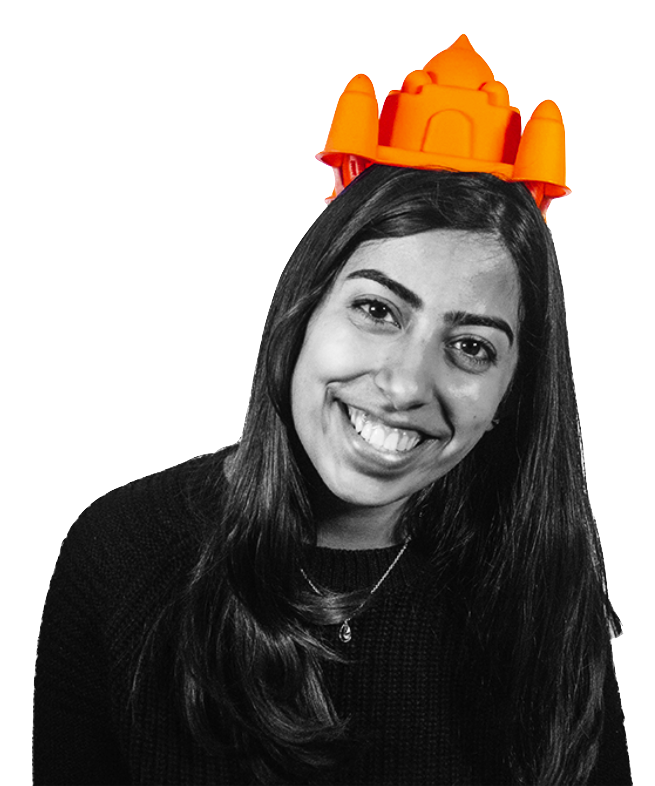
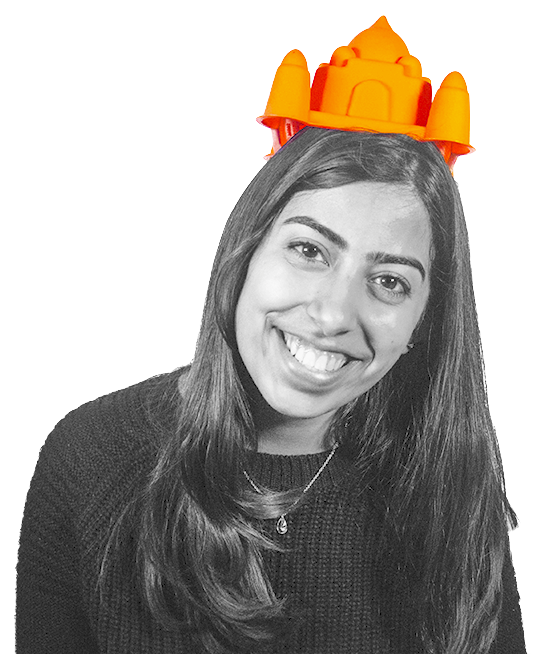
change homepage

diff --git a/css/homepage.css b/css/homepage.css
@@ -23,6 +23,7 @@ body {
 
 section a {
   color: #ffffff;
+  text-decoration: none;
 }
 
 header a {
@@ -177,6 +178,7 @@ header a:hover {
   font-weight: 400;
   color: #ffffff;
   display: none;
+  height: 100%;
 }
 
 .officer_grid {
@@ -201,7 +203,6 @@ header a:hover {
 
 }
 
-
 .icon {
   width: 30px;
   margin: 10px;
@@ -210,21 +211,63 @@ header a:hover {
 
 .hero_pic {
   position: absolute;
-  width: 600px;
+  width: 650px;
   bottom: 0px;
   right: 0px;
   z-index: -1;
   display: none;
 }
 
+
+#join_us {
+  background-color: white;
+  color: #ff6600;
+
+  width: 150px;
+  height: 18px;
+  padding-top: 10px;
+  padding-bottom: 10px;
+  margin-top: 80px;
+  margin-left: 12px;
+
+  font-family: "Open Sans", serif;
+  text-align: center;
+  font-size: 1.3em;
+  font-weight: 700;
+  letter-spacing: 1px;
+  border: 4px solid #ff6600;
+  border-radius: 50px;
+
+  cursor: pointer;
+  transition: background-color 1s ease;
+}
+
+#join_us:hover {
+  background-color: #ff6600;
+  color: white;
+}
+
 h1 {
   font-family: "Playfair Display", serif;
   font-weight: 400;
-  font-size: 3.3em;
+  font-size: 4em;
   line-height: 0.7em;
   padding-left: 10px;
   margin: 10px auto;
   color: #ff6600;
+}
+
+p {
+  font-family: "Open Sans", serif;
+  font-weight: 400;
+  font-size: 1em;
+  font-style: italic;
+  line-height: 0.7em;
+  padding-left: 15px;
+  margin: 10px auto;
+  color: #666666;
+  bottom: 100px;
+  position: absolute;
 }
 
 

diff --git a/index.html b/index.html
@@ -7,7 +7,7 @@
     <link rel="stylesheet" type="text/css" href="css/homepage.css">
     <link rel="icon" type="image/png" href="media/site_logo.png">
     <link href='https://fonts.googleapis.com/css?family=Playfair+Display:400,400italic,700,900' rel='stylesheet' type='text/css'>
-    <link href='https://fonts.googleapis.com/css?family=Open+Sans:400,600' rel='stylesheet' type='text/css'>
+    <link href='https://fonts.googleapis.com/css?family=Open+Sans:300,400,600' rel='stylesheet' type='text/css'>
 
     <script src="js/jquery-1.12.4.min.js"></script>
     <script src="js/main.js"></script>
@@ -85,12 +85,13 @@
           <h1>UC Berkeley's</h1>
           <h1>Human-Centered</h1>
           <h1>Design Consultancy</h1>
+          <a href="/about#join_us"><div id="join_us">JOIN US</div></a>
+          <p>Sonali Verma '18</p>
         </div>
 
-      </div>
-      <!-- <div class="stripe index_content"></div> -->
+        <img class="hero_pic index_content" src="media/heroes/sonali.png">
 
-      <img class="hero_pic index_content" src="media/heroes/karenli.jpg">
+      </div>
     </section>
     </div>
 
